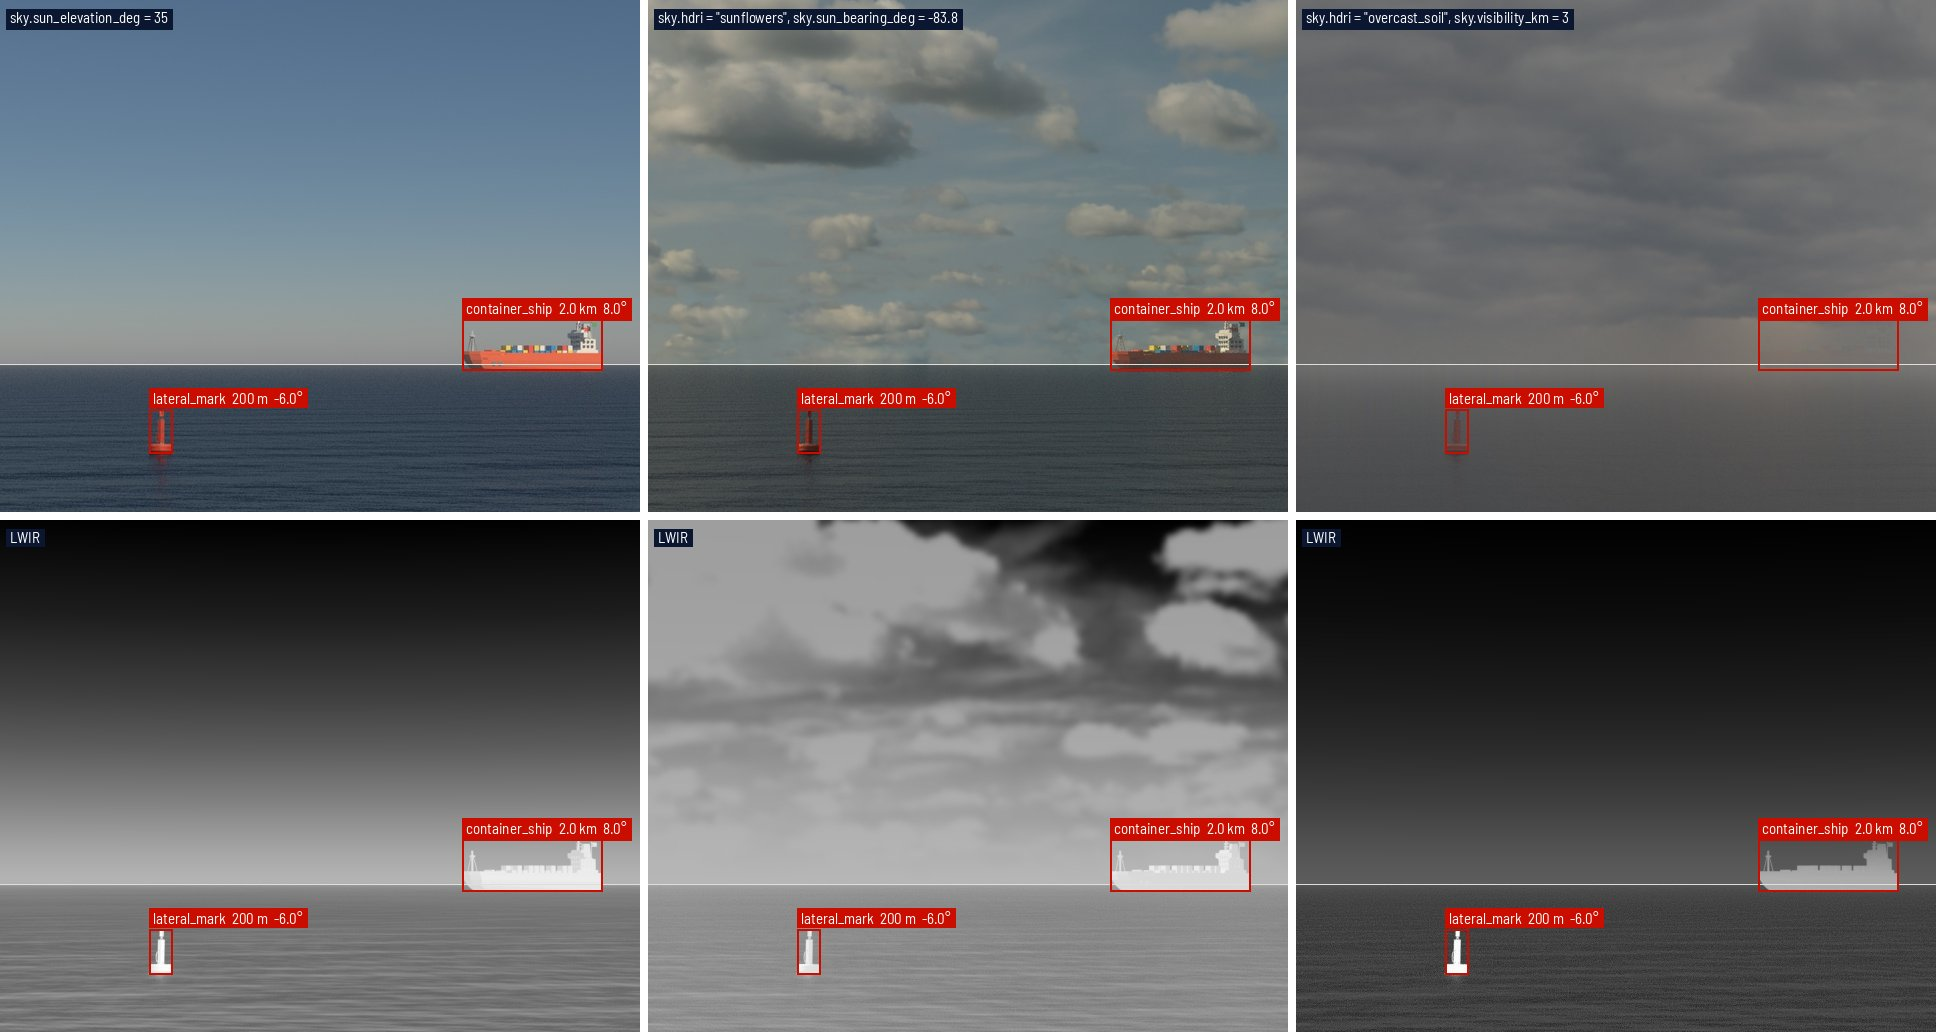
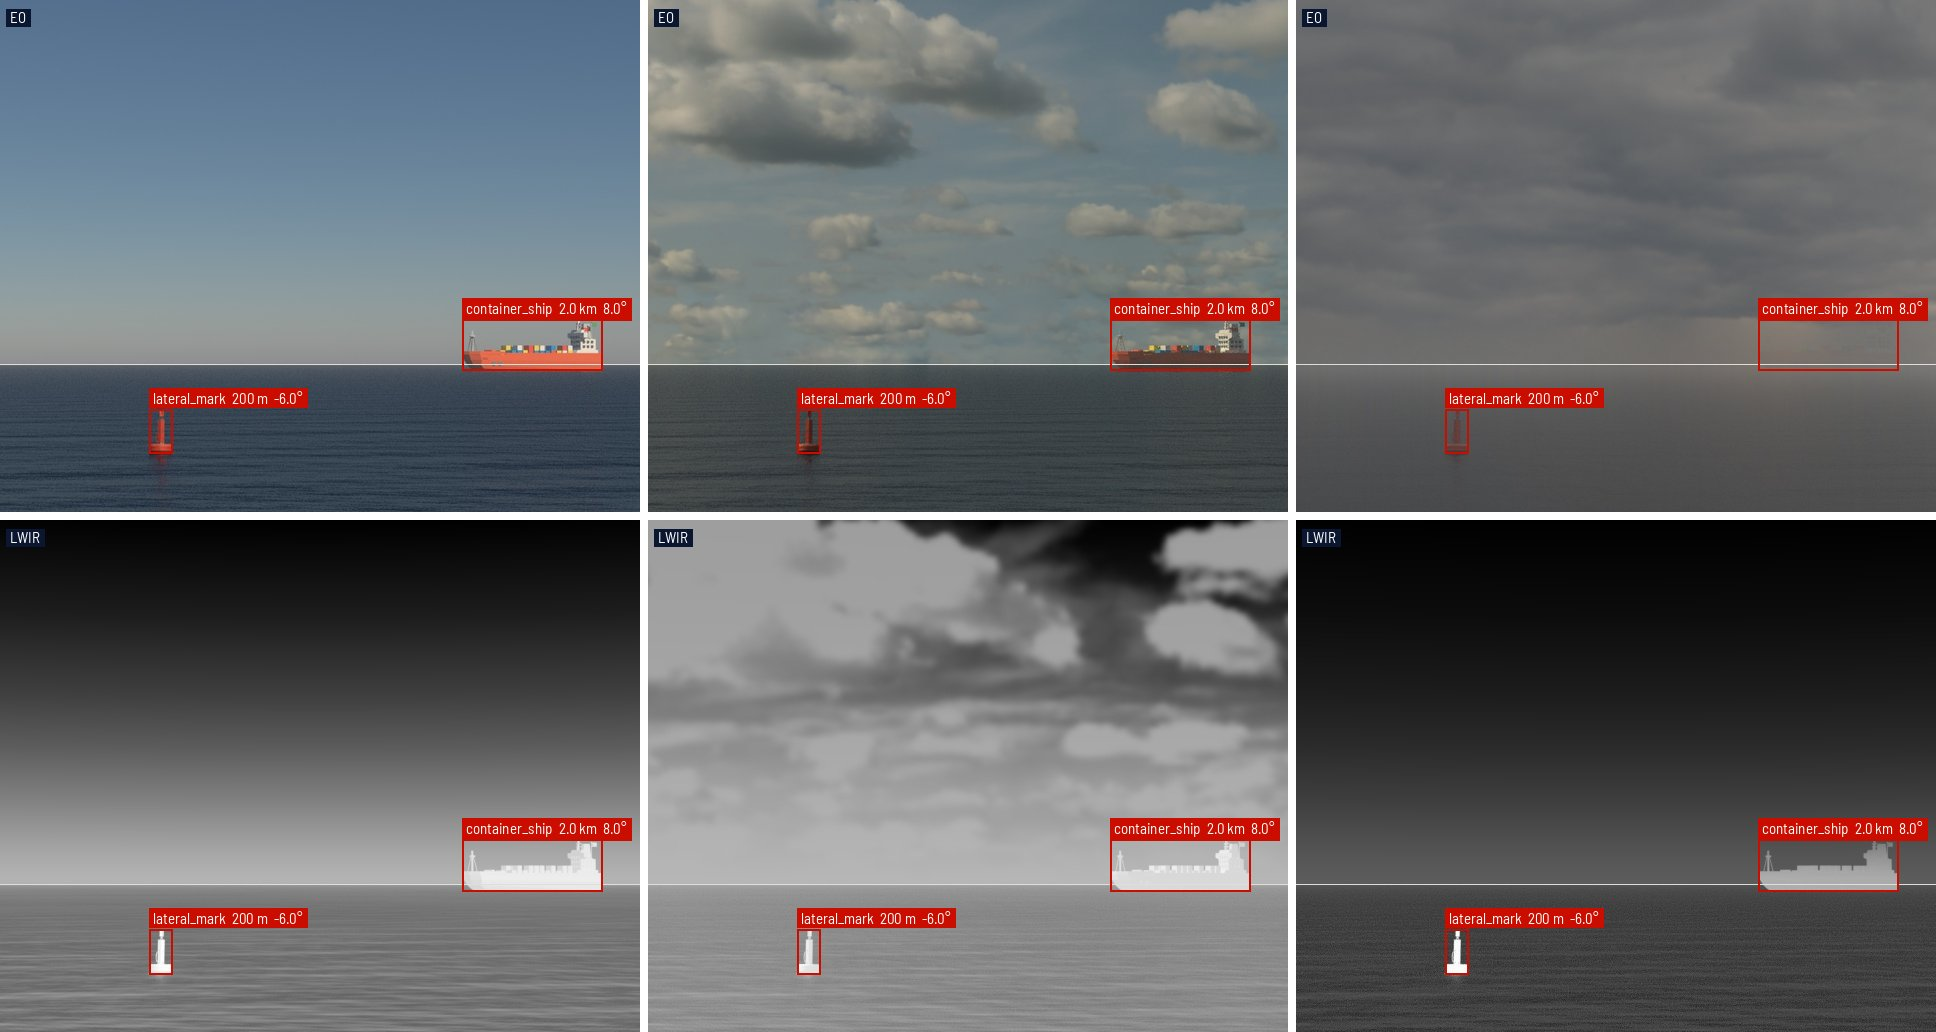
docs: hero captions name the band, EO or LWIR
Claude-Session: https://claude.ai/code/session_01Ecgti8s4UQ6WWBMa2RYxh5

Changed region(s): [[0.6818, 0.0, 0.8368, 0.031], [0.3409, 0.0, 0.4959, 0.031], [0.0, 0.0, 0.093, 0.031]]

diff --git a/docs/hero.py b/docs/hero.py
@@ -75,7 +75,7 @@ def frame(
     return captioned(img, caption)
 
 
-def column(run: Path, caption: str) -> tuple[Image.Image, Image.Image]:
+def column(run: Path) -> tuple[Image.Image, Image.Image]:
     """EO cropped to the LWIR field of view, and LWIR, both at LWIR size."""
     labels = json.loads((run / "labels.json").read_text())
     calibration = json.loads((run / "calibration.json").read_text())
@@ -98,7 +98,7 @@ def column(run: Path, caption: str) -> tuple[Image.Image, Image.Image]:
             boxes(eo),
             ((eo["width"] - w) / 2, (eo["height"] - h) / 2, w, h),
             size,
-            caption,
+            "EO",
         ),
         frame(run, ir, boxes(ir), (0.0, 0.0, *map(float, size)), size, "LWIR"),
     )
@@ -110,7 +110,7 @@ def main(hero: Path) -> None:
         for name, overrides in SKIES.items():
             run = Path(tmp) / name
             render(SCENARIO, overrides, run)
-            columns.append(column(run, ", ".join(overrides)))
+            columns.append(column(run))
     w, h = columns[0][0].size
     sheet = Image.new(
         "RGB", (len(columns) * (w + GAP_PX) - GAP_PX, 2 * h + GAP_PX), "white"
